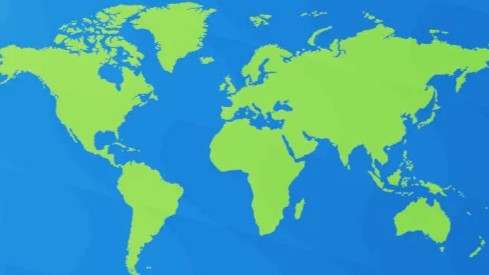
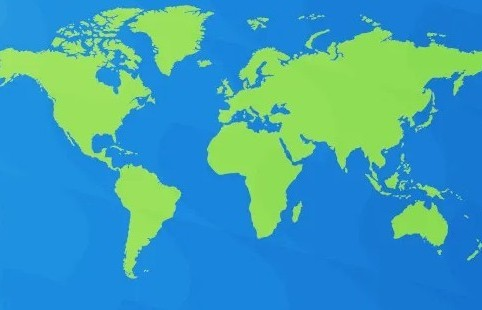
alterações de layout

diff --git a/components/buttoninformation.vue b/components/buttoninformation.vue
@@ -2,7 +2,6 @@
     <div>
         <v-btn
             v-bind="props"
-            size="small"
             color="red"
             icon="mdi-circle"
             @click="openDialog()"
@@ -12,7 +11,7 @@
             v-model="showDialog"
             width="auto"
             >
-            <v-card style="min-width: 900px; max-width: 1100px;">
+            <v-card style="min-width: 900px; max-width: 1080px;">
                 <v-card-title class="bg-blue-darken-2">
                     <div class="d-flex align-center justify-space-between">
                         <h4 class="text-caption text-md-overline font-weight-bold"><v-icon color="blue" icon="mdi-information" small></v-icon> Informações sobre o rio</h4>

diff --git a/app.vue b/app.vue
@@ -25,15 +25,15 @@
 </template>
 <style >
   .content{
-    width: 1100px;
+    width: 1080px;
     height: 100%;
     position: absolute;
     overflow: hidden;
     margin-top: 10px;
   }
   .mapa{
-    width: 1100px;
-    height: 618px;
+    width: 1080px;
+    height: 700px;
     position: absolute;
     background-image: url("/assets/mapa.jpg");
     background-position: center;
